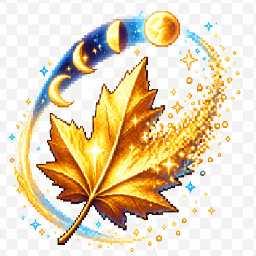
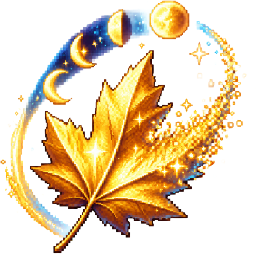
feat: 六转以上蛊虫可由原版升级效果逐次升转（五转不可突破六转），光阴荏苒蛊 Power 图标更新（0.10.1）

diff --git a/GuZhenRenCode/Patch/GuWormUpgradePatch.cs b/GuZhenRenCode/Patch/GuWormUpgradePatch.cs
@@ -10,16 +10,19 @@ using MegaCrit.Sts2.Core.Models;
 namespace GuZhenRen.Patches;
 
 /// <summary>
-/// 蛊虫牌完全退出游戏原生卡牌升级入口。
+/// 将游戏原生“升级卡牌”入口桥接为蛊虫升一转。
 ///
-/// 锻造与其他升级事件只允许选择普通牌；蛊虫的所有转数成长均由升炼处理。
-/// 六转及以上蛊虫只在状态语义上视为已升级，不执行原生升级生命周期，
-/// 因而不会恢复任何已删除的伤害、格挡、催动次数或衍生牌升级效果。
+/// 五转蛊不能借升级效果突破到六转；六转之后则仍可由升级效果
+/// 逐次升到七转及更高转数。整个流程不调用原生 OnUpgrade，避免把
+/// 蛊虫误变成普通“+”牌。
 /// </summary>
 internal static class GuWormUpgradePatch
 {
     private const string HarmonyId =
         Entry.ModId + ".GuWormUpgrade";
+
+    private static readonly FieldInfo? UpgradedEventField =
+        AccessTools.Field(typeof(CardModel), nameof(CardModel.Upgraded));
 
     private static bool _initialized;
 
@@ -56,6 +59,18 @@ internal static class GuWormUpgradePatch
             );
         }
 
+        MethodInfo? upgradeInternal = AccessTools.DeclaredMethod(
+            typeof(CardModel),
+            nameof(CardModel.UpgradeInternal)
+        );
+
+        if (upgradeInternal == null)
+        {
+            throw new MissingMethodException(
+                "蛊虫升转桥接所需的 CardModel.UpgradeInternal 不存在。"
+            );
+        }
+
         Harmony harmony = new(HarmonyId);
         harmony.Patch(
             isUpgradableGetter,
@@ -69,6 +84,13 @@ internal static class GuWormUpgradePatch
             postfix: new HarmonyMethod(
                 typeof(GuWormUpgradePatch),
                 nameof(IsUpgradedPostfix)
+            )
+        );
+        harmony.Patch(
+            upgradeInternal,
+            prefix: new HarmonyMethod(
+                typeof(GuWormUpgradePatch),
+                nameof(UpgradeInternalPrefix)
             )
         );
 
@@ -92,11 +114,20 @@ internal static class GuWormUpgradePatch
         ref bool __result
     )
     {
-        if (__instance is AbstractGuWormCard)
+        switch (__instance)
         {
-            // 无论转数或显示出的升级状态如何，蛊牌都不能成为
-            // 锻造、升级事件或其他原生升级选牌界面的候选。
-            __result = false;
+            case AbstractGuWormCard gu:
+                __result = CanReceiveUpgradeEffect(
+                    gu.BaseGuRank,
+                    gu.MaxGuRank
+                );
+                break;
+            case AbstractBenMingGuCard benMingGu:
+                __result = CanReceiveUpgradeEffect(
+                    benMingGu.GuRank,
+                    benMingGu.MaxGuRank
+                );
+                break;
         }
     }
 
@@ -105,14 +136,69 @@ internal static class GuWormUpgradePatch
         ref bool __result
     )
     {
-        if (__instance is AbstractGuWormCard gu)
+        switch (__instance)
         {
-            // 仙蛊的“已升级”状态完全由永久基础转数派生。
-            // 强制覆盖旧存档可能残留的原生升级标记：
-            // 一至五转始终为未升级，六至九转始终为已升级。
-            __result =
-                gu.BaseGuRank >=
-                GuZhenRenCardRules.XianGuRank;
+            case AbstractGuWormCard gu:
+                __result =
+                    gu.BaseGuRank >=
+                    GuZhenRenCardRules.XianGuRank;
+                break;
+            case AbstractBenMingGuCard benMingGu:
+                __result =
+                    benMingGu.GuRank >=
+                    GuZhenRenCardRules.XianGuRank;
+                break;
         }
     }
+
+    private static bool UpgradeInternalPrefix(CardModel __instance)
+    {
+        bool isGuCard;
+        bool increased;
+
+        switch (__instance)
+        {
+            case AbstractGuWormCard gu:
+                isGuCard = true;
+                increased = CanReceiveUpgradeEffect(
+                        gu.BaseGuRank,
+                        gu.MaxGuRank
+                    ) &&
+                    gu.TryIncreaseGuRank();
+                break;
+            case AbstractBenMingGuCard benMingGu:
+                isGuCard = true;
+                increased = CanReceiveUpgradeEffect(
+                        benMingGu.GuRank,
+                        benMingGu.MaxGuRank
+                    ) &&
+                    benMingGu.TryIncreaseGuRank();
+                break;
+            default:
+                isGuCard = false;
+                increased = false;
+                break;
+        }
+
+        if (!isGuCard)
+        {
+            return true;
+        }
+
+        if (increased)
+        {
+            // 保留原生升级监听器的刷新语义，但跳过 CurrentUpgradeLevel、
+            // OnUpgrade 与原生数值升级。
+            (UpgradedEventField?.GetValue(__instance) as Action)?.Invoke();
+        }
+
+        return false;
+    }
+
+    private static bool CanReceiveUpgradeEffect(
+        int currentRank,
+        int maximumRank
+    ) =>
+        currentRank != GuZhenRenCardRules.XianGuRank - 1 &&
+        currentRank < maximumRank;
 }
